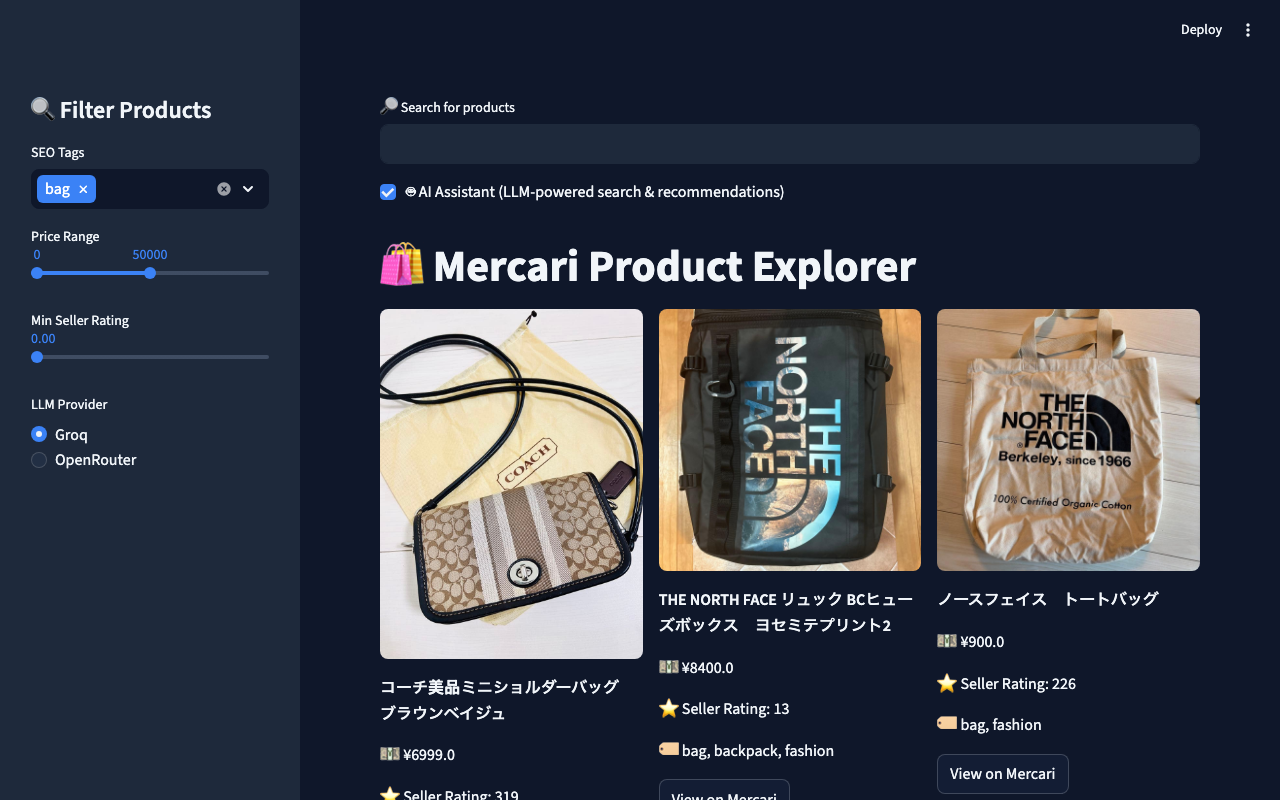
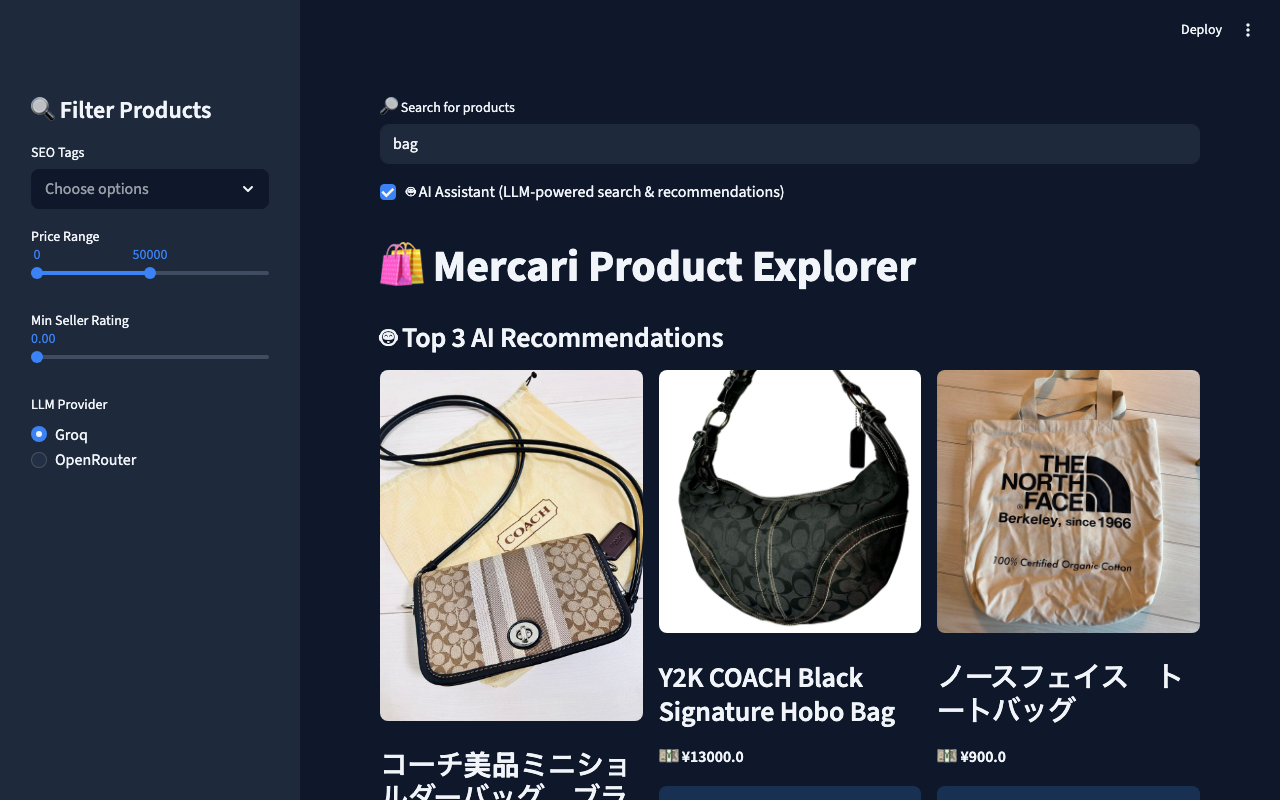
chore: refine showcase GIF and capture script
- Reduced GIF start delay (removed white page)
- Fixed search box selector for 'bag' demo
- Optimized video-to-gif conversion parameters

diff --git a/scripts/capture_ui.py b/scripts/capture_ui.py
@@ -12,8 +12,23 @@ async def capture():
     os.makedirs(video_dir)
 
     async with async_playwright() as p:
-        # Launch browser with video recording enabled
+        # Launch browser
         browser = await p.chromium.launch()
+        
+        # Initial wait for server to be ready - without recording
+        print("Pre-loading app to handle hydration...")
+        temp_context = await browser.new_context()
+        temp_page = await temp_context.new_page()
+        try:
+            await temp_page.goto("http://localhost:8502", timeout=60000)
+            await temp_page.wait_for_selector("h1", timeout=60000)
+            # Wait for Streamlit's "Running..." to stop
+            await asyncio.sleep(10) 
+        except Exception as e:
+            print(f"Warning during pre-load: {e}")
+        await temp_context.close()
+
+        # Now start recording for the actual demo
         context = await browser.new_context(
             viewport={'width': 1280, 'height': 800},
             record_video_dir=video_dir,
@@ -21,39 +36,35 @@ async def capture():
         )
         page = await context.new_page()
         
-        print("Waiting for Streamlit to load (20s delay for full hydration)...")
-        await asyncio.sleep(20)
-        
         try:
+            print("Navigating for recording...")
             await page.goto("http://localhost:8502")
-            # Wait for the main title to appear
-            await page.wait_for_selector("h1", timeout=60000)
-            print("Page loaded.")
+            await page.wait_for_selector("h1")
+            await asyncio.sleep(2) # Short pause for visuals
             
-            # 1. Take landing page screenshot after delay
-            await asyncio.sleep(5)
+            # 1. Landing screenshot
             await page.screenshot(path="showcase/landing.png")
             print("Landing screenshot saved.")
 
             # 2. Perform Default Search for "bag"
-            print("Performing default search for 'bag'...")
-            search_input = page.get_by_placeholder("Search for products")
-            if await search_input.count() == 0:
-                 # Fallback to general text input if placeholder doesn't match
-                 search_input = page.locator("input").first
+            print("Performing default search for 'bag' in the main search box...")
             
-            await search_input.fill("bag")
+            # Use label-based selector for the actual search box
+            search_box = page.get_by_label("🔎 Search for products")
+            await search_box.fill("bag")
             await page.keyboard.press("Enter")
-            await asyncio.sleep(8) # Wait for search results
             
+            print("Waiting for default search results...")
+            await asyncio.sleep(5) 
             await page.screenshot(path="showcase/default_search_bag.png")
-            print("Default search screenshot saved.")
 
             # 3. Enable AI Assistant
             print("Enabling AI Assistant...")
-            # Streamlit checkboxes are often labels
             await page.get_by_text("AI Assistant (LLM-powered search & recommendations)").click()
-            await asyncio.sleep(15) # Wait for AI to process and recommend
+            
+            print("Waiting for AI recommendations (this takes a moment)...")
+            # Wait for the recommendations section or just enough time for the LLM
+            await asyncio.sleep(15) 
             
             await page.screenshot(path="showcase/ai_search_bag.png")
             print("AI search screenshot saved.")
@@ -67,22 +78,27 @@ async def capture():
         await context.close()
         await browser.close()
 
-        # Find the recorded video file and rename it
+        # Process the video
         videos = os.listdir(video_dir)
         if videos:
             video_path = os.path.join(video_dir, videos[0])
-            final_video = "showcase/demo_ai_search.webm"
-            shutil.move(video_path, final_video)
-            print(f"Video saved to {final_video}")
+            raw_video = "showcase/raw_demo.webm"
+            shutil.move(video_path, raw_video)
             
-            # Convert to GIF using ffmpeg for README compatibility
-            print("Converting video to GIF...")
-            os.system(f"ffmpeg -y -i {final_video} -vf \"fps=10,scale=800:-1:flags=lanczos\" showcase/demo_ai_search.gif")
-            print("GIF saved to showcase/demo_ai_search.gif")
+            final_gif = "showcase/demo_ai_search.gif"
             
-    # Cleanup temp video dir
+            # Convert to GIF with trimming and optimization
+            # We trim the first 2 seconds of the recorded session which might still be loading
+            print("Converting video to optimized GIF...")
+            # -ss 2 trims the first 2 seconds
+            os.system(f"ffmpeg -y -i {raw_video} -ss 2 -vf \"fps=10,scale=800:-1:flags=lanczos\" {final_gif}")
+            print(f"Optimized GIF saved to {final_gif}")
+            
+    # Cleanup
     if os.path.exists(video_dir):
         shutil.rmtree(video_dir)
+    if os.path.exists("showcase/raw_demo.webm"):
+        os.remove("showcase/raw_demo.webm")
 
 if __name__ == "__main__":
     if not os.path.exists("showcase"):
